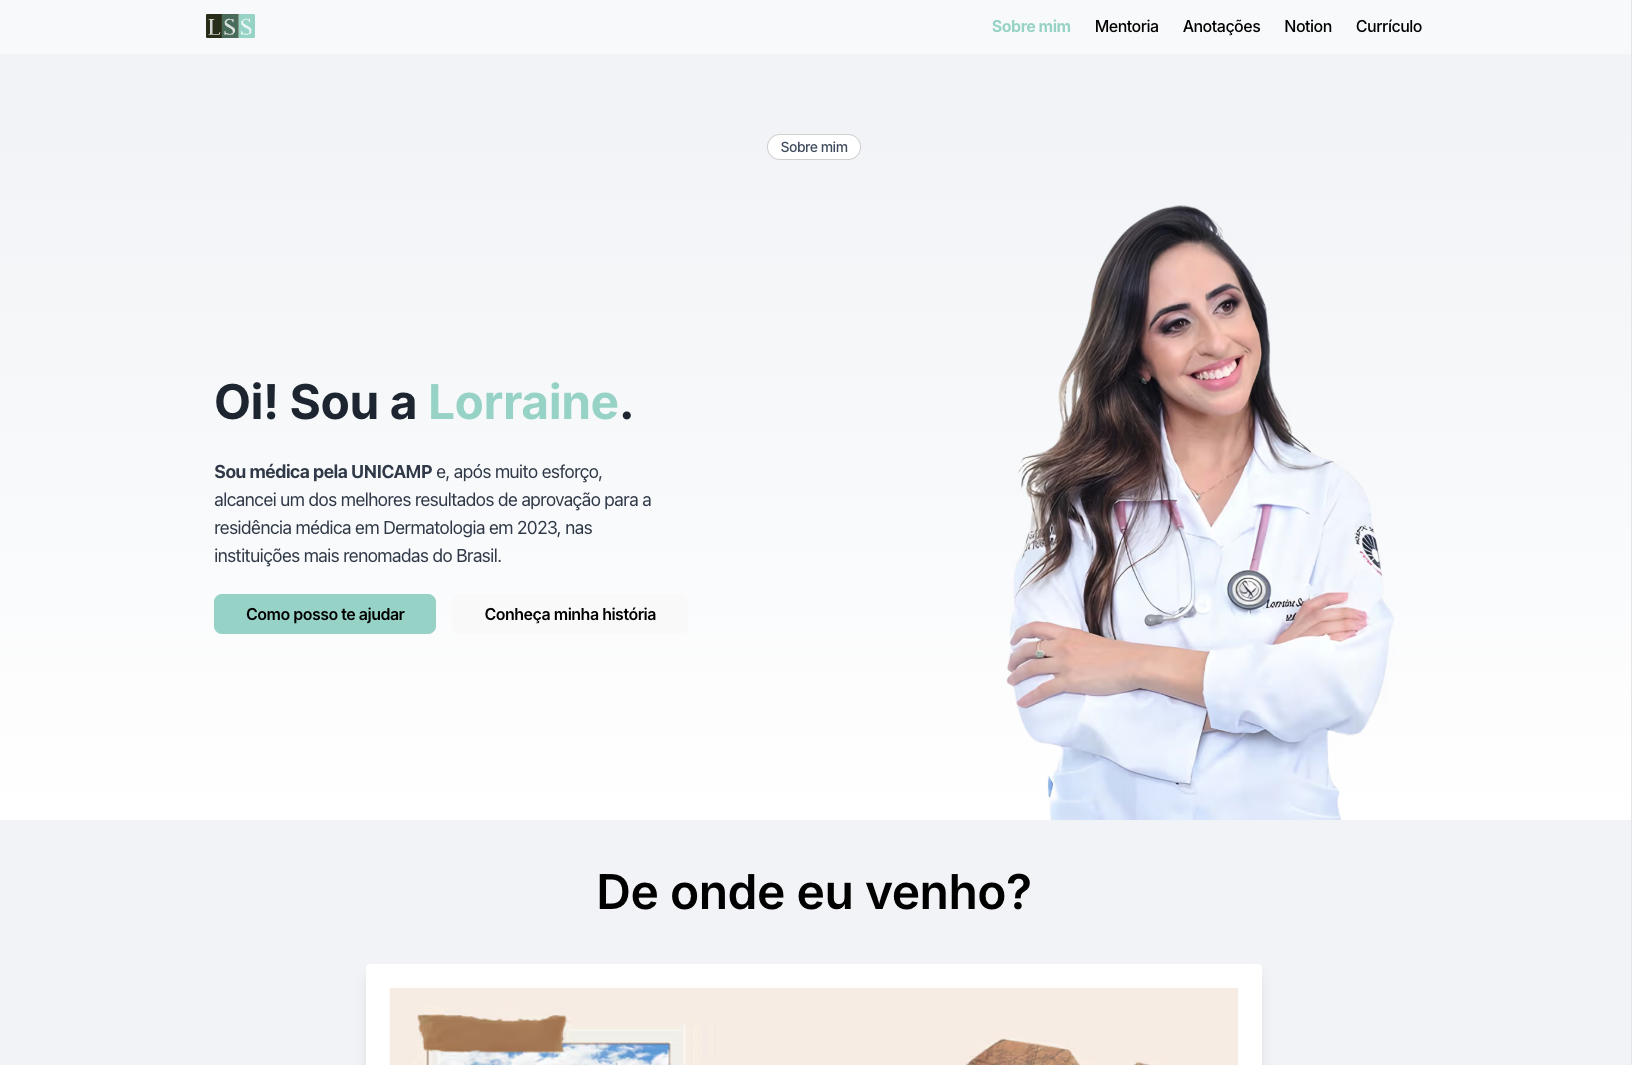
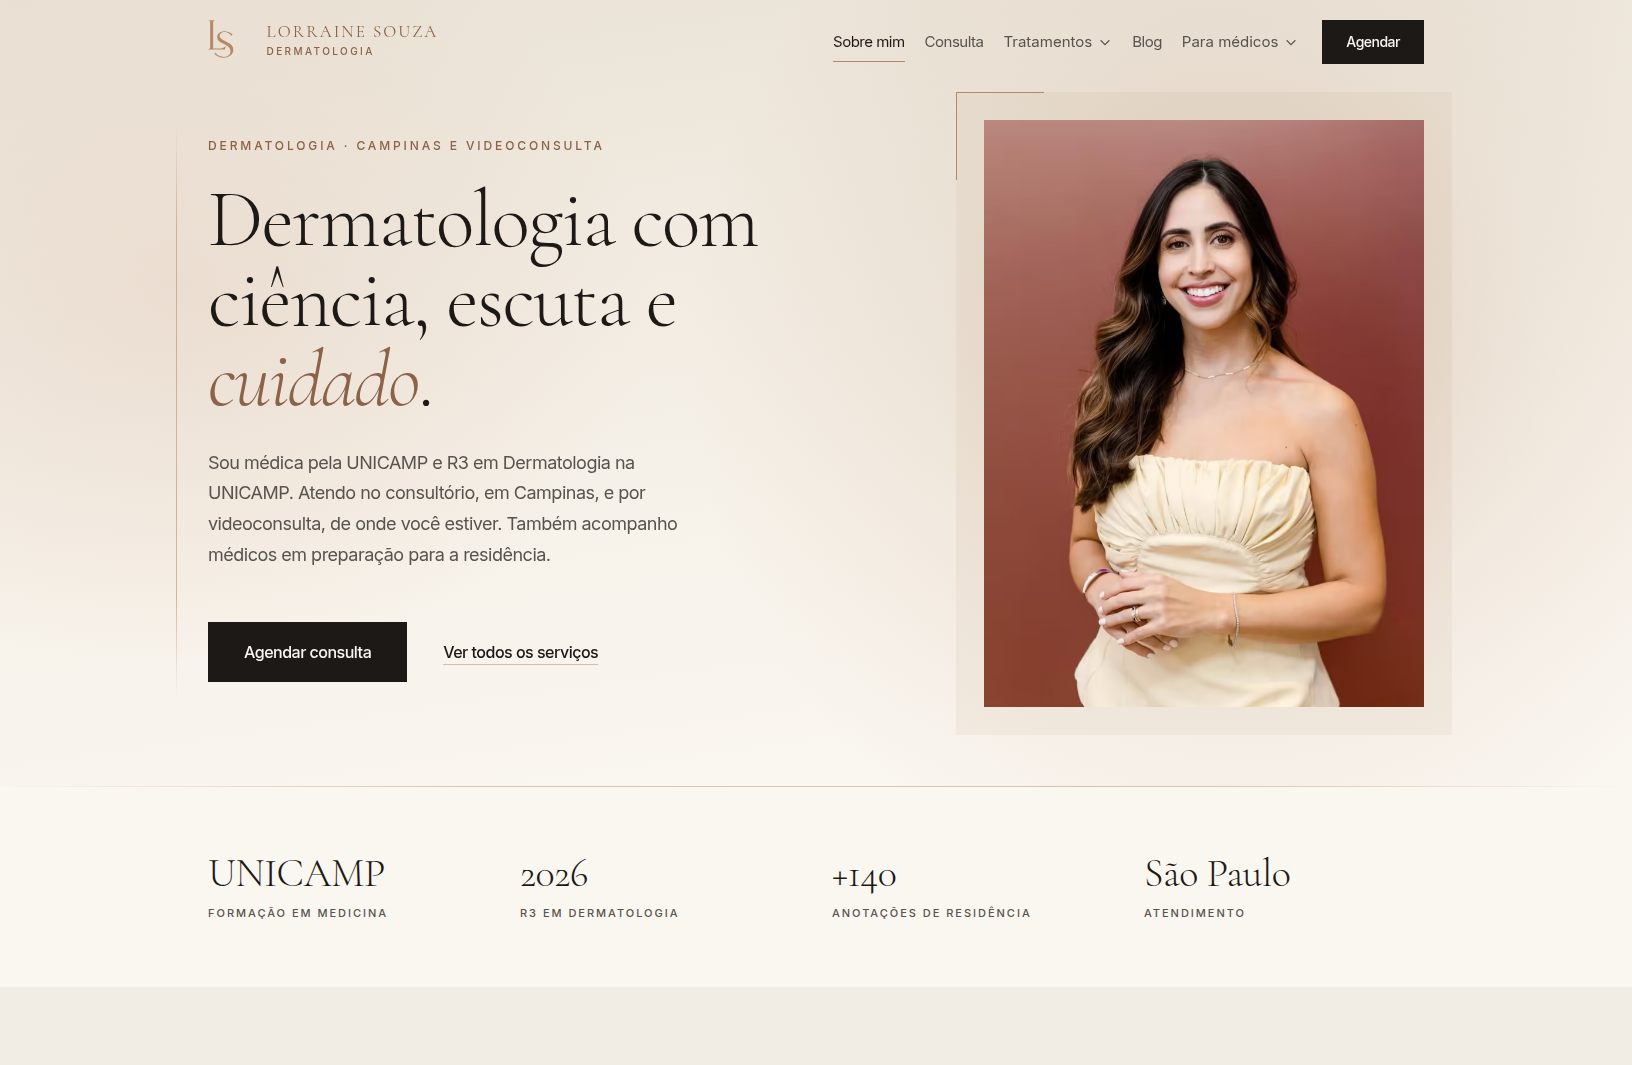
Atualiza produtos e iguala a altura dos cards
Produtos agora são dralorraine.com, Convoca e Lume, no lugar de
Maromba AI e chatQL. Cada card ganhou descrição própria e uma
screenshot da hero atual, tanto na página /produtos quanto na seção
Produtos da home.

As screenshots de dralorraine.com e Lume foram capturadas rodando os
respectivos repos localmente (1632x1065, mesma proporção das antigas).
A do Convoca é um render da hero reconstruído a partir do print — o
site não é alcançável a partir deste ambiente.

Altura dos cards: .article e .card nunca preenchiam a célula do grid,
então cada card ficava do tamanho do próprio conteúdo e um título de
duas linhas deixava o card mais alto que os vizinhos. Agora ambos usam
height: 100%, e o título do Article reserva duas linhas para que data,
descrição e CTA fiquem alinhados entre os cards da mesma linha.

Claude-Session: https://claude.ai/code/session_01XYxurn62V5pPZnP2aG6qUp

diff --git a/src/pages/Products/index.tsx b/src/pages/Products/index.tsx
@@ -51,17 +51,8 @@ export default function ProductsPage() {
                 >
                     <motion.div variants={itemVariants}>
                         <MenuCard
-                            title="Maromba AI"
-                            description="Crie treinos personalizados e acompanhe seu progresso com inteligência artificial."
-                            link="https://www.marombaai.com"
-                            isExternalLink
-                            image="marombaai-screenshot.png"
-                        />
-                    </motion.div>
-                    <motion.div variants={itemVariants}>
-                        <MenuCard
                             title="dralorraine.com"
-                            description="Website para divulgar serviços e produtos da Dra Lorraine."
+                            description="Site da dermatologista Lorraine Souza: consulta em Campinas e videoconsulta, tratamentos e conteúdo para médicos."
                             link="https://www.dralorraine.com"
                             isExternalLink
                             image="dralorraine-screenshot.png"
@@ -69,11 +60,20 @@ export default function ProductsPage() {
                     </motion.div>
                     <motion.div variants={itemVariants}>
                         <MenuCard
-                            title="chatQL"
-                            description="Espaço de trabalho para criar e organizar consultas em SQL com IA. Feito para PMs e Data Analysts."
-                            link="https://www.chatql.space"
+                            title="Convoca"
+                            description="Todos os concursos públicos do Brasil em um só lugar, com busca e filtros por órgão, cargo, estado e banca."
+                            link="https://useconvoca.com.br"
                             isExternalLink
-                            image="chatql-screenshot.png"
+                            image="convoca-screenshot.png"
+                        />
+                    </motion.div>
+                    <motion.div variants={itemVariants}>
+                        <MenuCard
+                            title="Lume"
+                            description="Fotografe o rótulo e entenda a garrafa: o vinho conferido em fontes reais e explicado em português simples."
+                            link="https://lumewines.app"
+                            isExternalLink
+                            image="lume-screenshot.png"
                         />
                     </motion.div>
                 </motion.div>

diff --git a/src/pages/About/index.tsx b/src/pages/About/index.tsx
@@ -111,25 +111,25 @@ export default function About() {
                     </div>
                     <FeaturedGrid>
                         <MenuCard
-                            title="Maromba AI"
-                            description="Crie treinos personalizados e acompanhe seu progresso com inteligência artificial"
-                            link="https://www.marombaai.com"
-                            isExternalLink
-                            image="marombaai-screenshot.png"
-                        />
-                        <MenuCard
                             title="dralorraine.com"
-                            description="Website para divulgar serviços e produtos da Dra Lorraine"
+                            description="Site da dermatologista Lorraine Souza: consulta, tratamentos e conteúdo para médicos"
                             link="https://www.dralorraine.com"
                             isExternalLink
                             image="dralorraine-screenshot.png"
                         />
                         <MenuCard
-                            title="chatQL"
-                            description="Espaço de trabalho para criar e organizar consultas em SQL com IA"
-                            link="https://www.chatql.space"
+                            title="Convoca"
+                            description="Todos os concursos públicos do Brasil em um só lugar, com busca e filtros"
+                            link="https://useconvoca.com.br"
                             isExternalLink
-                            image="chatql-screenshot.png"
+                            image="convoca-screenshot.png"
+                        />
+                        <MenuCard
+                            title="Lume"
+                            description="Fotografe o rótulo e entenda a garrafa, em português simples"
+                            link="https://lumewines.app"
+                            isExternalLink
+                            image="lume-screenshot.png"
                         />
                     </FeaturedGrid>
                 </motion.section>

diff --git a/src/components/MenuCard/menucard.scss b/src/components/MenuCard/menucard.scss
@@ -2,6 +2,7 @@
 
 .card {
     width: 100%;
+    height: 100%;
     border-radius: $radius-lg;
     transition: all $transition-normal;
     background: $white;
@@ -32,6 +33,7 @@
         flex-direction: column;
         text-decoration: none;
         width: 100%;
+        height: 100%;
     }
 
     &__content {
@@ -48,6 +50,10 @@
         margin: 0 0 $space-1;
         line-height: $leading-snug;
         letter-spacing: $tracking-tight;
+        display: -webkit-box;
+        -webkit-line-clamp: 2;
+        -webkit-box-orient: vertical;
+        overflow: hidden;
     }
 
     &__description {

diff --git a/src/components/Article/article.scss b/src/components/Article/article.scss
@@ -2,7 +2,10 @@
 
 .article {
     width: 100%;
+    height: 100%;
     margin: 0;
+    display: flex;
+    flex-direction: column;
     border-radius: $radius-lg;
     transition: all $transition-normal;
     background: $white;
@@ -81,6 +84,7 @@
         -webkit-line-clamp: 2;
         -webkit-box-orient: vertical;
         flex-shrink: 0;
+        min-height: calc(#{$text-base} * #{$leading-snug} * 2);
     }
 
     &__description {
